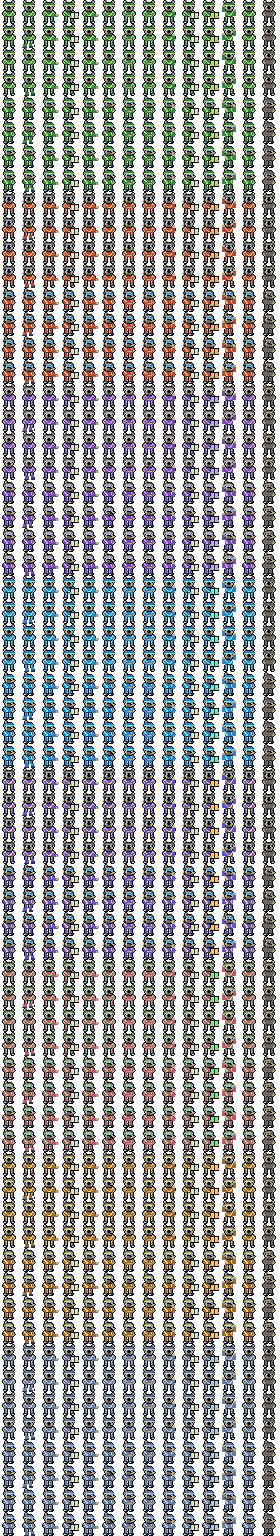
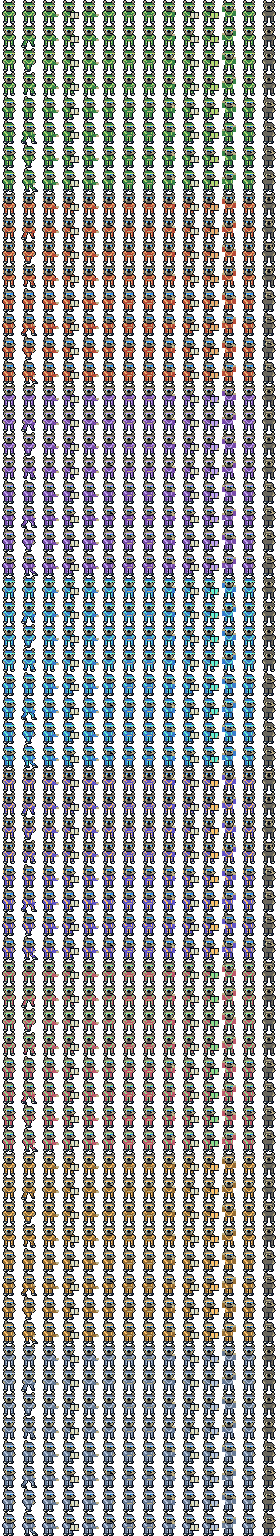
Author four-frame character strides for both world views

diff --git a/scripts/character-stride-proof.ts b/scripts/character-stride-proof.ts
@@ -1,0 +1,116 @@
+import { chromium, type Browser } from "@playwright/test";
+import { createServer } from "vite";
+import { readFile, mkdir, writeFile } from "node:fs/promises";
+import { createHash } from "node:crypto";
+import assert from "node:assert/strict";
+import { localChromiumPath } from "../apps/runner/browser-path";
+const out = "evidence/character-strides";
+await mkdir(out, { recursive: true });
+const source = JSON.parse(
+  await readFile("assets/source/characters.json", "utf8"),
+);
+const atlas = await readFile("assets/compiled/characters.png");
+const server = await createServer({
+  root: ".",
+  server: { host: "127.0.0.1", port: 18886, strictPort: true },
+});
+let browser: Browser | undefined;
+const deadline = setTimeout(() => {
+  void browser?.close();
+  void server.close();
+  process.exitCode = 1;
+}, 60000);
+try {
+  await server.listen();
+  browser = await chromium.launch({
+    headless: true,
+    executablePath: await localChromiumPath(),
+  });
+  const page = await browser.newPage({ viewport: { width: 700, height: 920 } });
+  const errors: string[] = [];
+  page.on("pageerror", (e) => errors.push(e.message));
+  await page.route("http://127.0.0.1:18886/", (route) =>
+    route.fulfill({
+      contentType: "text/html",
+      body: "<!doctype html><body></body>",
+    }),
+  );
+  await page.goto("http://127.0.0.1:18886");
+  const proof = await page.evaluate(async (source) => {
+    document.body.innerHTML =
+      "<h1>ORIGINAL KUJO / WALK CYCLE</h1><p>Asset inspection · 4 overworld frames / 4 side-view frames · no runtime activity</p>";
+    document.head.innerHTML =
+      "<style>body{background:#05080f;color:#9dbff5;font:12px monospace;margin:12px}h1{font-size:18px}.row{display:flex;border-top:1px solid #255fac;padding:4px;align-items:center;gap:8px}.name{width:95px}canvas{width:60px;height:72px;image-rendering:pixelated}</style>";
+    const image = new Image();
+    image.src = "/assets/compiled/characters.png";
+    await image.decode();
+    const result = [];
+    for (let role = 0; role < source.palettes.length; role++) {
+      const row = document.createElement("div");
+      row.className = "row";
+      const label = document.createElement("span");
+      label.className = "name";
+      label.textContent = source.palettes[role][0];
+      row.append(label);
+      const modes = [];
+      for (let mode = 0; mode < 2; mode++) {
+        const pixels = [];
+        for (let frame = 0; frame < 4; frame++) {
+          const c = document.createElement("canvas");
+          c.width = 20;
+          c.height = 24;
+          const ctx = c.getContext("2d")!;
+          ctx.drawImage(
+            image,
+            20,
+            (role * 8 + mode * 4 + frame) * 24,
+            20,
+            24,
+            0,
+            0,
+            20,
+            24,
+          );
+          pixels.push(
+            Array.from(ctx.getImageData(0, 0, 20, 24).data).join(","),
+          );
+          row.append(c);
+        }
+        modes.push({ side: mode === 1, uniqueFrames: new Set(pixels).size });
+      }
+      document.body.append(row);
+      result.push({ appearance: source.palettes[role][0], modes });
+    }
+    return {
+      roles: result,
+      width: image.naturalWidth,
+      height: image.naturalHeight,
+    };
+  }, source);
+  assert(
+    proof.roles.every((r) => r.modes.every((m) => m.uniqueFrames === 4)),
+    "Stride frames must be distinct in both views",
+  );
+  assert.deepEqual(errors, []);
+  await page.screenshot({ path: out + "/gallery.png", fullPage: true });
+  await writeFile(
+    out + "/proof.json",
+    JSON.stringify(
+      {
+        kind: "Original asset inspection; not live agent proof",
+        ...proof,
+        errors,
+        atlasSha256: createHash("sha256").update(atlas).digest("hex"),
+        pngBytes: atlas.length,
+        decodedBytes: proof.width * proof.height * 4,
+      },
+      null,
+      2,
+    ) + "\n",
+  );
+  console.log(JSON.stringify(proof));
+} finally {
+  clearTimeout(deadline);
+  await browser?.close();
+  await server.close();
+}

diff --git a/scripts/compile-characters.py b/scripts/compile-characters.py
@@ -40,12 +40,15 @@ for role, (identity, coat, accent, accessory) in enumerate(source['palettes']):
                     rect(rows, 3, 6, 1, 3, 'A')
                 else:
                     rect(rows, 5, 5, 8, 1, 'A')
-                if pose == 'walk' and frame % 2:
-                    rect(rows, 3, 20, 11, 4, ' ')
-                    rect(rows, 3 if frame == 1 else 5, 20, 4, 3, 'C')
-                    rect(rows, 9 if frame == 1 else 11, 19, 3, 3, 'C')
-                    rect(rows, 2 if frame == 1 else 4, 23, 5, 1, 'B')
-                    rect(rows, 9 if frame == 1 else 11, 22, 4, 2, 'B')
+                if pose == 'walk':
+                    stride = source['walkSide' if mode else 'walkFront'][frame]
+                    assert len(stride) == 7 and all(len(row) == W for row in stride)
+                    rows[17:] = [list(row) for row in stride]
+                    # Counter-swing the visible forearm. No position or timing
+                    # lives in the asset; the deterministic planner owns both.
+                    if frame % 2:
+                        rect(rows, 12, 13, 3, 4, 'C')
+                        rect(rows, 13, 12 if frame == 1 else 15, 2, 2, 'F')
                 if pose in ['read', 'inspect', 'carry']:
                     rect(rows, 10, 12, 9, 7, '#')
                     rect(rows, 11, 13, 7, 5, 'H' if pose != 'carry' else 'A')

diff --git a/evidence/character-strides/README.md b/evidence/character-strides/README.md
@@ -1,0 +1,9 @@
+# Original character strides
+
+The original 20×24 Kujo canine silhouettes now have four authored leg frames for overworld and side-view walking. The prior compiler reused resting legs for frames 0 and 2. The new source tables define rest, stride, passing and opposite-stride poses, with a small counter-swing of the visible forearm. Existing appearance IDs, colors, accessories, sprite footprint, atlas layout and animation timing remain unchanged. No protected image pixels were sampled.
+
+`assets/source/characters.json` is the editable source; `scripts/compile-characters.py` compiles the PNG. The renderer already selects these atlas frames using world-core's animation and tick. No runtime truth, movement path, position, operation or outcome is created by this change.
+
[1 lines of base64/hex data omitted]
+
+The first gallery attempt navigated to a Vite root without an index document; the harness now explicitly serves its empty review document. Its initial browser variable also needed an explicit TypeScript type. These were harness defects, not source/runtime failures. No model or agent task was run for this asset check. Overall supplied-reference fidelity remains unapproved, and release throughput/visibility qualifications are unchanged.
